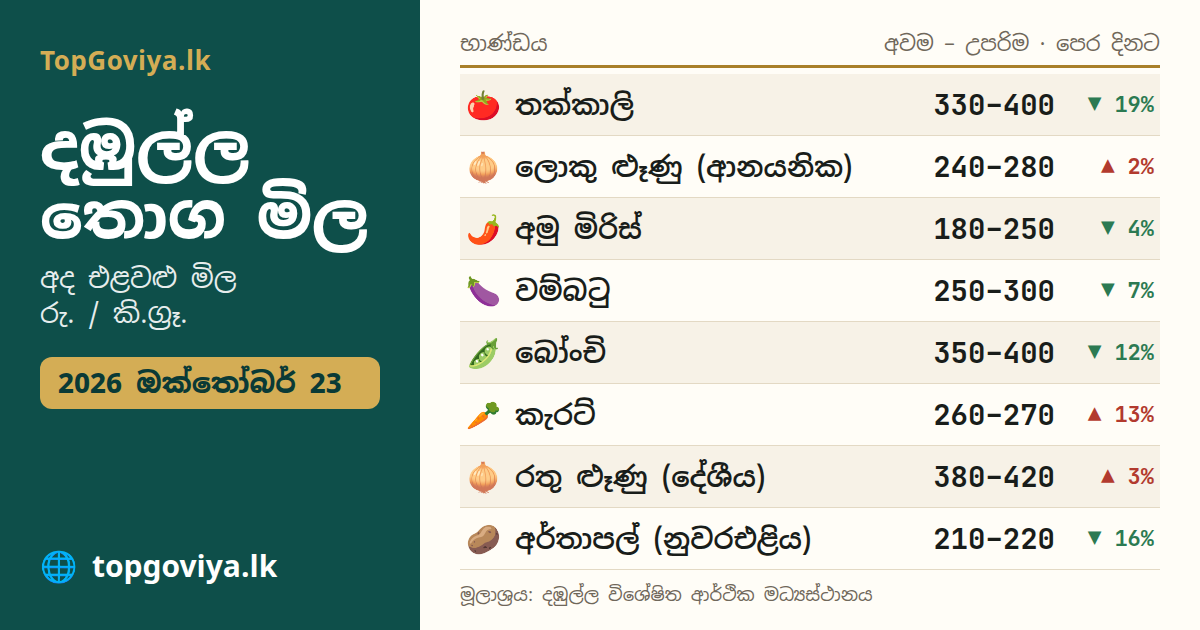
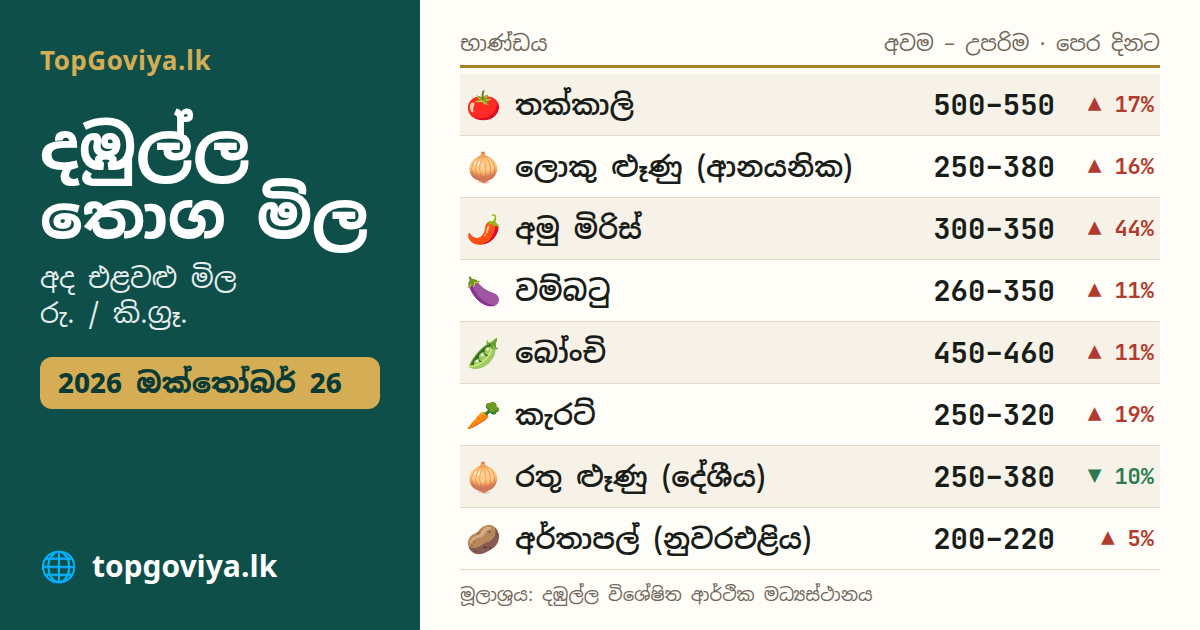
Dambulla preview image (2026-10-26)

diff --git a/index.html b/index.html
@@ -10,14 +10,14 @@
 <link rel="canonical" href="https://topgoviya.lk/">
 <meta property="og:type" content="website">
 <meta property="og:url" content="https://topgoviya.lk/">
-<meta property="og:image" content="https://topgoviya.lk/share/dambulla-wide.png?v=2026-10-23">
+<meta property="og:image" content="https://topgoviya.lk/share/dambulla-wide.png?v=2026-10-26">
 <meta property="og:image:width" content="1200">
 <meta property="og:image:height" content="630">
 <meta property="og:image:alt" content="දඹුල්ල තොග මිල — අද එළවළු මිල · TopGoviya.lk">
 <meta property="og:site_name" content="TopGoviya.lk">
 <meta property="og:locale" content="si_LK">
 <meta name="twitter:card" content="summary_large_image">
-<meta name="twitter:image" content="https://topgoviya.lk/share/dambulla-wide.png?v=2026-10-23">
+<meta name="twitter:image" content="https://topgoviya.lk/share/dambulla-wide.png?v=2026-10-26">
 <meta name="theme-color" content="#0e4f4a">
 <link rel="preconnect" href="https://fonts.googleapis.com">
 <link rel="preconnect" href="https://fonts.gstatic.com" crossorigin>
